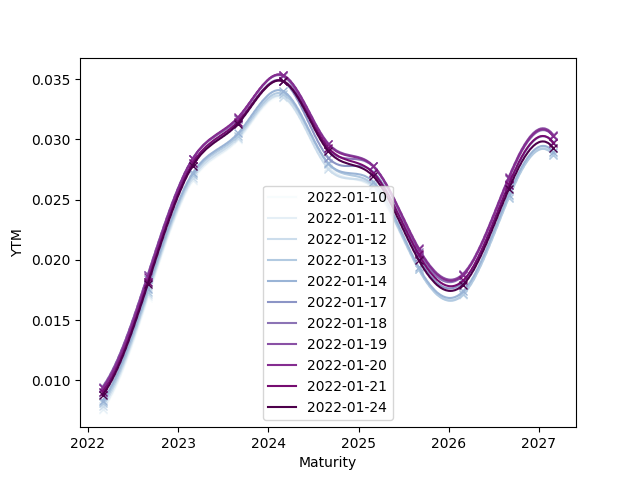
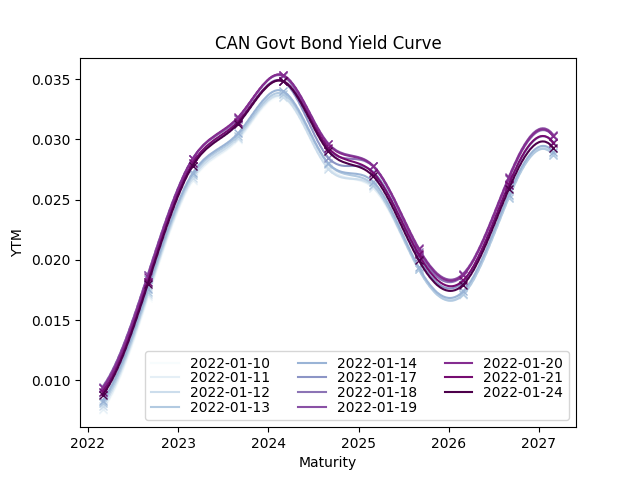
Improve plot format and style.

diff --git a/RatesResults.py b/RatesResults.py
@@ -17,7 +17,7 @@ class RatesResullts:
             print(list(zip(self.rates_curve_by_date[date][0], self.rates_curve_by_date[date][1])))
             print("=====================")
     
-    def plot(self, xlabel, ylabel, out_filename):
+    def plot(self, title, xlabel, ylabel, out_filename):
         cmap = plt.cm.get_cmap("BuPu")
         colors = cmap(np.linspace(0, 1, len(self.rates_curve_by_date)))
 
@@ -36,7 +36,8 @@ class RatesResullts:
             plt.plot(sorted_x_interpolated, sorted_y_interpolated, c=color)
             plt.plot(sorted_x, sorted_y, c=color, marker='x', linestyle='None', label='_nolegend_')
         
-        plt.legend(self.rates_curve_by_date)
+        plt.legend(self.rates_curve_by_date, ncol=3, labelspacing=0.05)
+        plt.title(title)
         plt.xlabel(xlabel)
         plt.ylabel(ylabel)
         plt.savefig(out_filename)

diff --git a/main.py b/main.py
@@ -32,7 +32,7 @@ def main():
         yield_rates_results.record_rates_curve(date, yield_x, yield_y)
     
     # Plot
-    yield_rates_results.plot("Maturity", "YTM", "yield_curves.png")
+    yield_rates_results.plot("CAN Govt Bond Yield Curve", "Maturity", "YTM", "yield_curves.png")
 
     return
 
